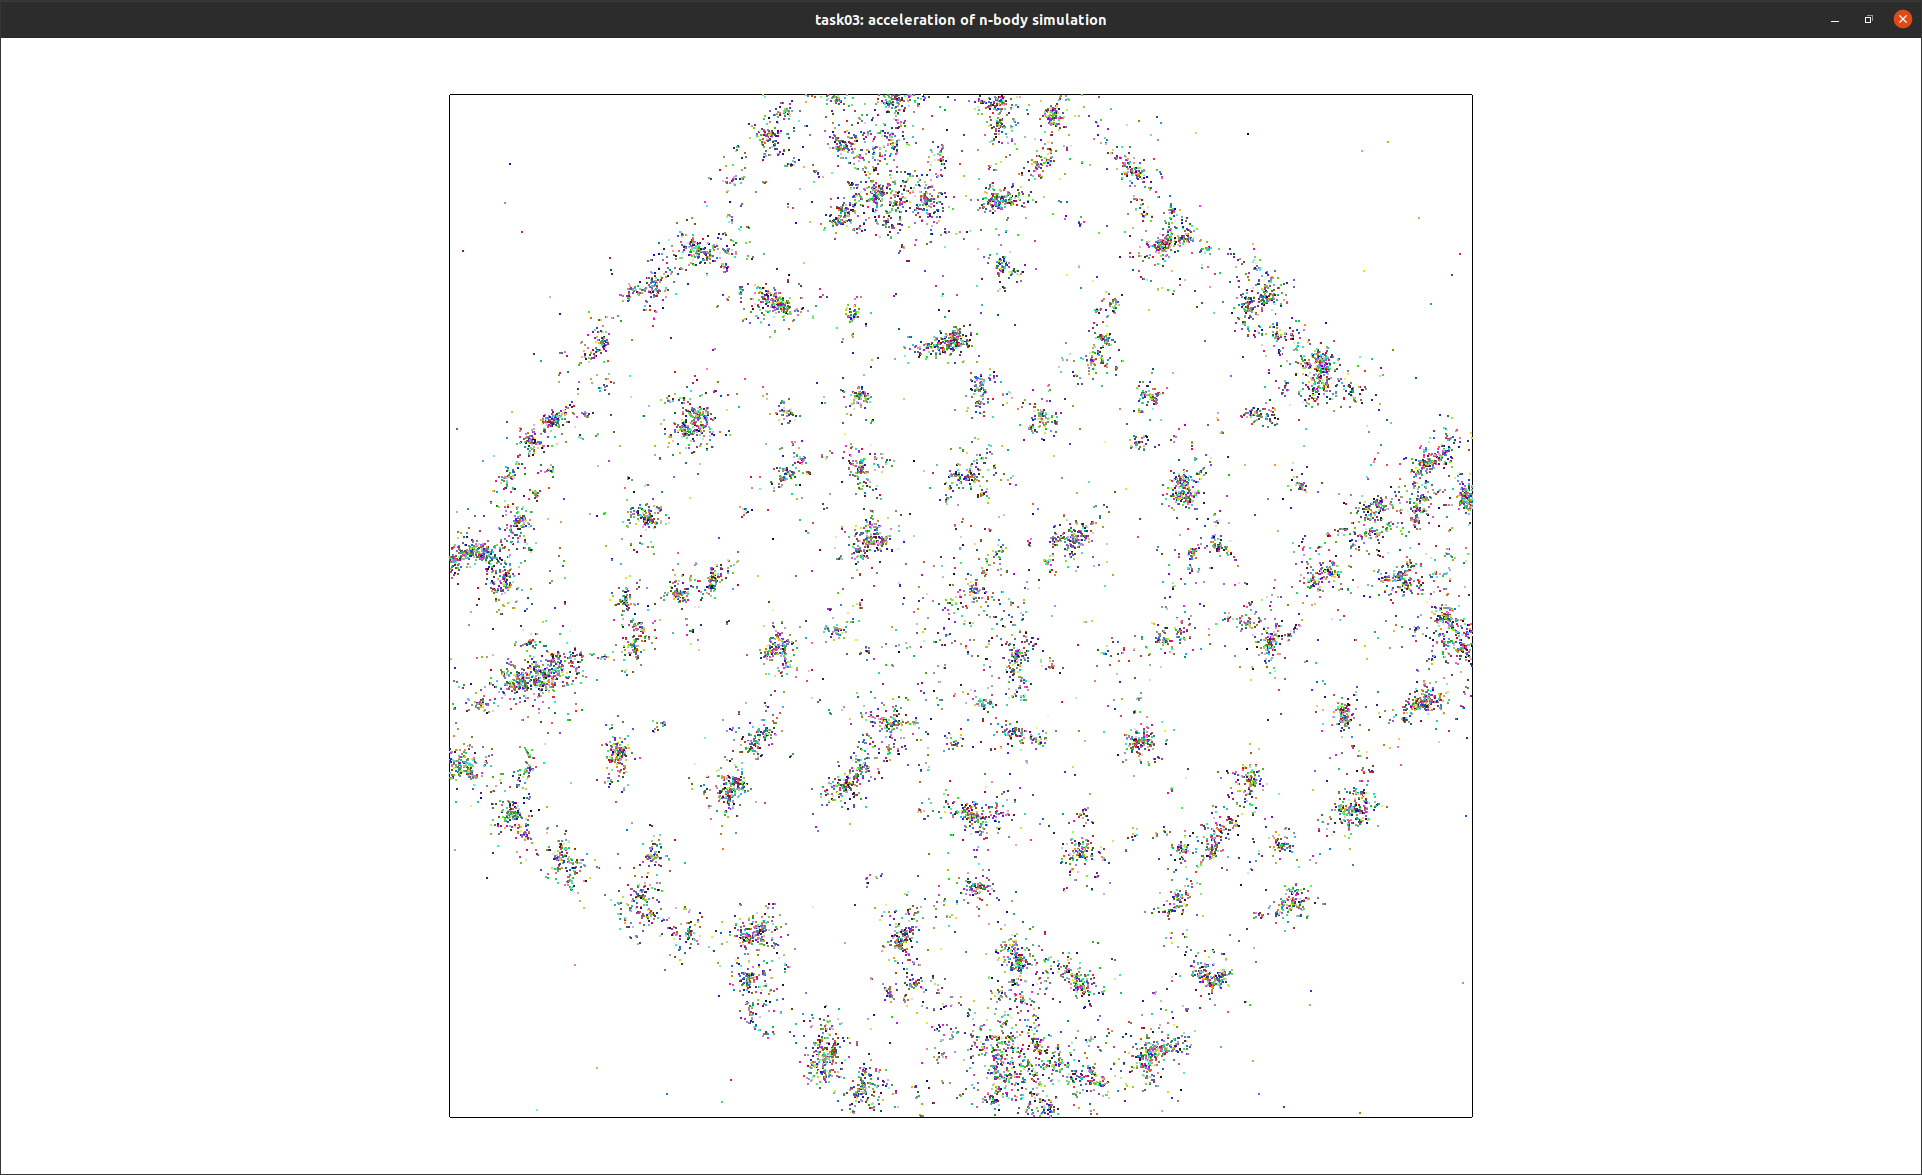
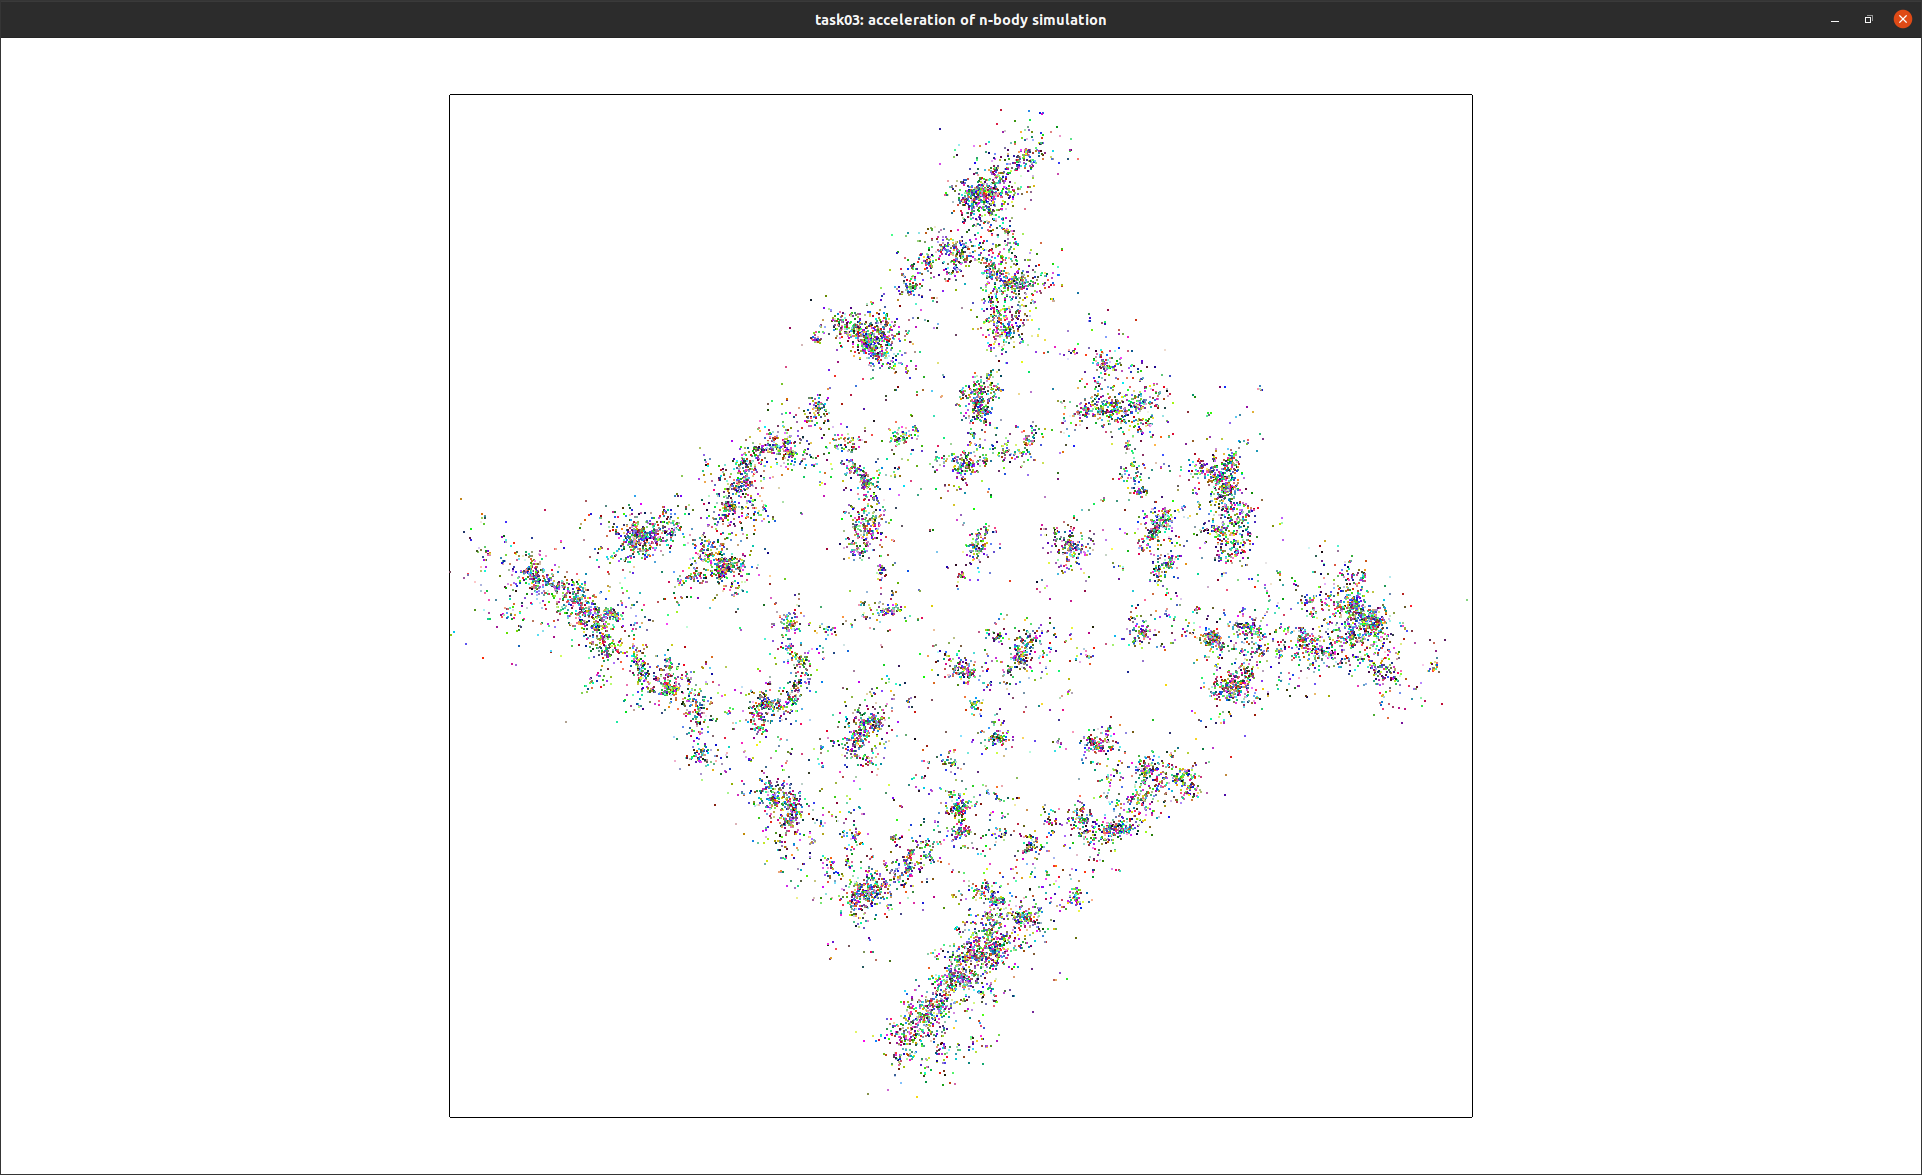
forget to time number of particle in grid

diff --git a/task03/main.cpp b/task03/main.cpp
@@ -174,7 +174,8 @@ void set_force_accelerated(
           // write a few lines of code here to compute the force from far grid.
           // use the center for the gravity of the grid : `acc.grid2cg[jy * num_div + jx]`
           Eigen::Vector2f cg = acc.grid2cg[jy * num_div + jx];
-          particles[ip].force += gravitational_force(cg - particles[ip].pos);
+          unsigned int particles_in_grid = acc.grid2idx[jy * num_div + jx + 1] - acc.grid2idx[jy * num_div + jx];
+          particles[ip].force += gravitational_force(cg - particles[ip].pos) * particles_in_grid;
         }
       }
     }

diff --git a/task03/README.md b/task03/README.md
@@ -77,9 +77,9 @@ Record the computation time by filling the table below.
 
 | #particle | time |
 | --- | --- |
-| 5000 | 3323ms |
-| 10000 | 6349ms |
-| 20000 | 12444ms |
+| 5000 | 3315ms |
+| 10000 | 6641ms |
+| 20000 | 15151ms |
 
 With the simulation with 20k particles, run the program for 200 steps. 
 Then save the screenshot image, overwriting `task03/problem2.png`.
